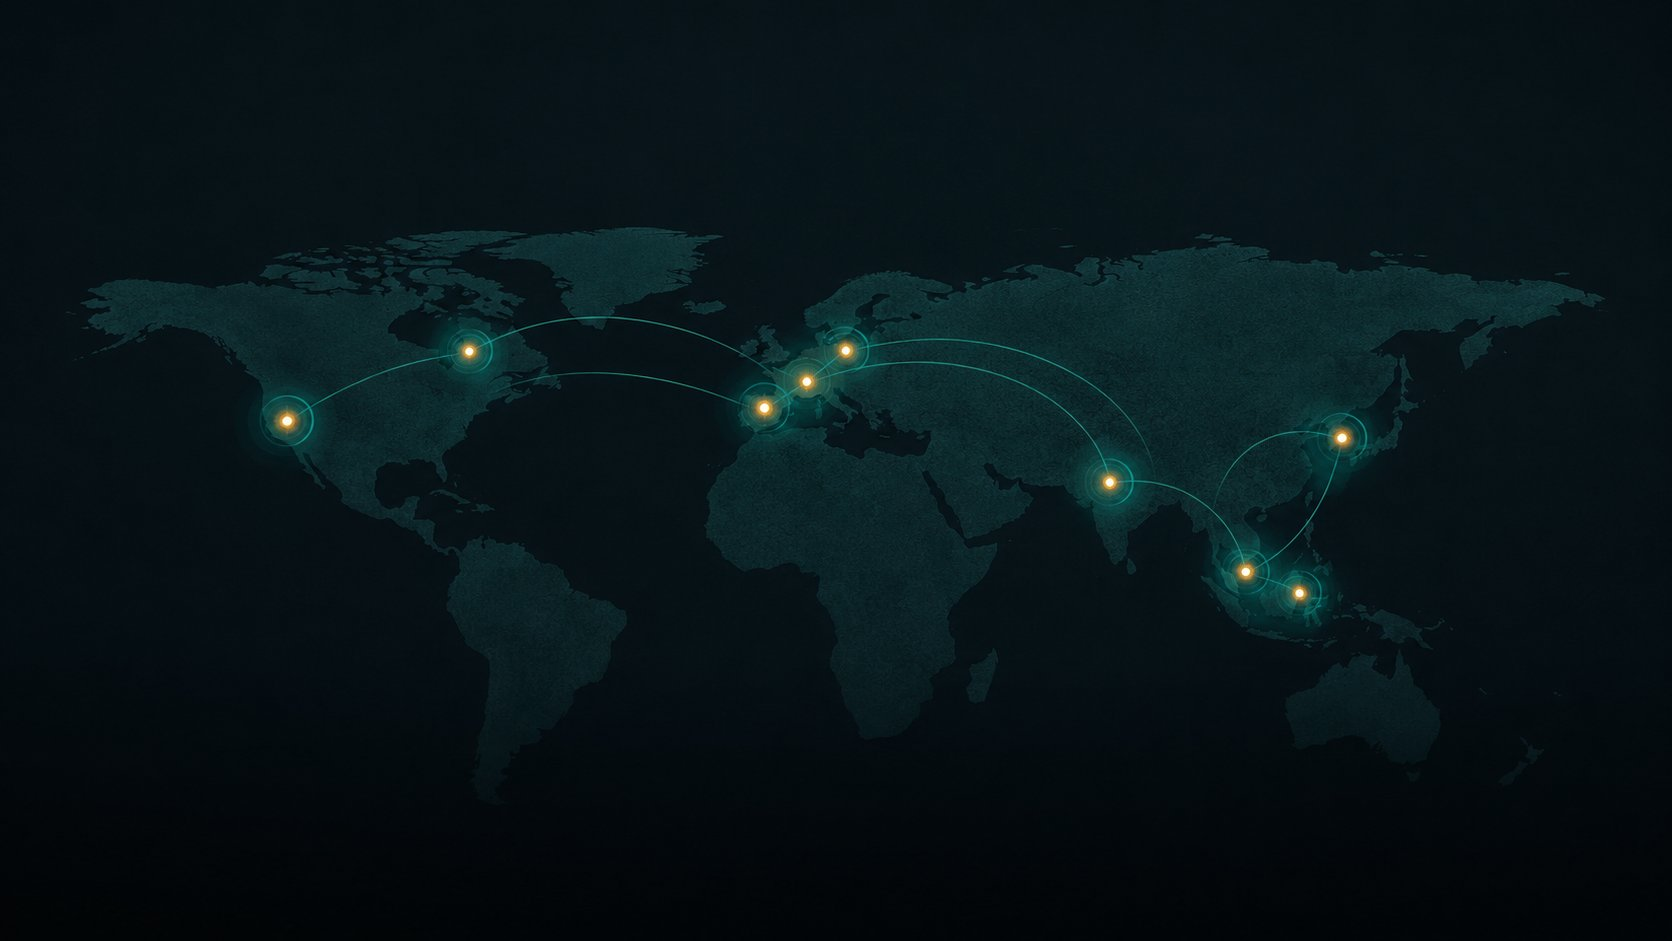
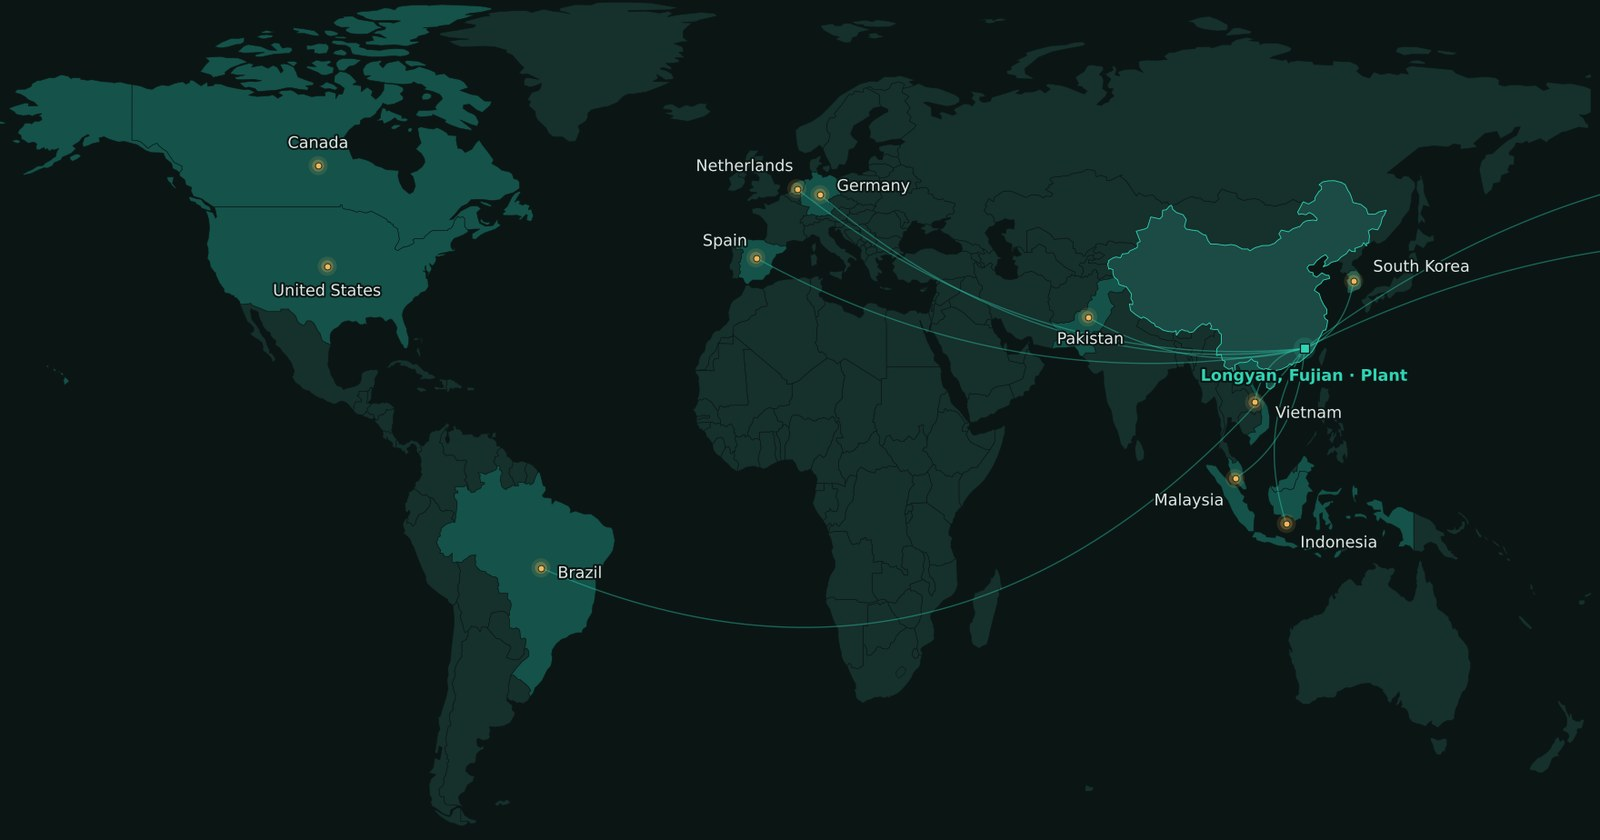
Add files via upload

diff --git a/company/about.html b/company/about.html
@@ -174,7 +174,7 @@
       </div>
       <p style="font-size:.9rem;color:var(--ink-3);margin-bottom:1rem;max-width:70ch">Pharmaceutical excipients — introducing high-purity precipitated silica (VS-PH350) for oral solid dosage.</p>
       <div style="display:grid;grid-template-columns:repeat(auto-fit,minmax(160px,1fr));gap:.75rem">
-        <img src="../assets/img/events/event-02.jpg" alt="Vistasilica at CPHI Worldwide · Frankfurt 2019" loading="lazy" style="width:100%;height:180px;object-fit:cover;border-radius:10px"><img src="../assets/img/events/event-03.jpg" alt="Vistasilica at CPHI Worldwide · Frankfurt 2019" loading="lazy" style="width:100%;height:180px;object-fit:cover;border-radius:10px"><img src="../assets/img/events/event-04.jpg" alt="Vistasilica at CPHI Worldwide · Frankfurt 2019" loading="lazy" style="width:100%;height:180px;object-fit:cover;border-radius:10px"><img src="../assets/img/events/event-06.jpg" alt="Vistasilica at CPHI Worldwide · Frankfurt 2019" loading="lazy" style="width:100%;height:180px;object-fit:cover;border-radius:10px">
+        <img src="../assets/img/events/event-03.jpg" alt="Vistasilica at CPHI Worldwide · Frankfurt 2019" loading="lazy" style="width:100%;height:180px;object-fit:cover;border-radius:10px"><img src="../assets/img/events/event-11.jpg" alt="Vistasilica at CPHI Worldwide · Frankfurt 2019" loading="lazy" style="width:100%;height:180px;object-fit:cover;border-radius:10px"><img src="../assets/img/events/event-08.jpg" alt="Vistasilica at CPHI Worldwide · Frankfurt 2019" loading="lazy" style="width:100%;height:180px;object-fit:cover;border-radius:10px"><img src="../assets/img/events/event-13.jpg" alt="Vistasilica at CPHI Worldwide · Frankfurt 2019" loading="lazy" style="width:100%;height:180px;object-fit:cover;border-radius:10px">
       </div>
     </div>
     <div class="event-year" data-reveal style="margin-bottom:2.5rem">
@@ -184,7 +184,7 @@
       </div>
       <p style="font-size:.9rem;color:var(--ink-3);margin-bottom:1rem;max-width:70ch">Food & feed anti-caking and carrier solutions — flow and stability demonstrations for powdered blends.</p>
       <div style="display:grid;grid-template-columns:repeat(auto-fit,minmax(160px,1fr));gap:.75rem">
-        <img src="../assets/img/events/event-05.jpg" alt="Vistasilica at Fi Europe & industry shows 2023" loading="lazy" style="width:100%;height:180px;object-fit:cover;border-radius:10px"><img src="../assets/img/events/event-07.jpg" alt="Vistasilica at Fi Europe & industry shows 2023" loading="lazy" style="width:100%;height:180px;object-fit:cover;border-radius:10px"><img src="../assets/img/events/event-08.jpg" alt="Vistasilica at Fi Europe & industry shows 2023" loading="lazy" style="width:100%;height:180px;object-fit:cover;border-radius:10px"><img src="../assets/img/events/event-01.jpg" alt="Vistasilica at Fi Europe & industry shows 2023" loading="lazy" style="width:100%;height:180px;object-fit:cover;border-radius:10px">
+        <img src="../assets/img/events/event-06.jpg" alt="Vistasilica at Fi Europe · Frankfurt 2023" loading="lazy" style="width:100%;height:180px;object-fit:cover;border-radius:10px"><img src="../assets/img/events/event-07.jpg" alt="Vistasilica at Fi Europe · Frankfurt 2023" loading="lazy" style="width:100%;height:180px;object-fit:cover;border-radius:10px"><img src="../assets/img/events/event-10.jpg" alt="Vistasilica at Fi Europe · Frankfurt 2023" loading="lazy" style="width:100%;height:180px;object-fit:cover;border-radius:10px"><img src="../assets/img/events/event-16.jpg" alt="Vistasilica at Fi Europe · Frankfurt 2023" loading="lazy" style="width:100%;height:180px;object-fit:cover;border-radius:10px">
       </div>
     </div>
     <div class="event-year" data-reveal style="margin-bottom:2.5rem">
@@ -194,7 +194,7 @@
       </div>
       <p style="font-size:.9rem;color:var(--ink-3);margin-bottom:1rem;max-width:70ch">Personal & oral care silica — soft-focus and mattifying grades (VS-DC300) with live sensory panels.</p>
       <div style="display:grid;grid-template-columns:repeat(auto-fit,minmax(160px,1fr));gap:.75rem">
-        <img src="../assets/img/events/event-09.jpg" alt="Vistasilica at in-cosmetics Global · Paris 2024" loading="lazy" style="width:100%;height:180px;object-fit:cover;border-radius:10px"><img src="../assets/img/events/event-10.jpg" alt="Vistasilica at in-cosmetics Global · Paris 2024" loading="lazy" style="width:100%;height:180px;object-fit:cover;border-radius:10px"><img src="../assets/img/events/event-12.jpg" alt="Vistasilica at in-cosmetics Global · Paris 2024" loading="lazy" style="width:100%;height:180px;object-fit:cover;border-radius:10px"><img src="../assets/img/events/event-16.jpg" alt="Vistasilica at in-cosmetics Global · Paris 2024" loading="lazy" style="width:100%;height:180px;object-fit:cover;border-radius:10px">
+        <img src="../assets/img/events/event-09.jpg" alt="Vistasilica at in-cosmetics Global · Paris 2024" loading="lazy" style="width:100%;height:180px;object-fit:cover;border-radius:10px"><img src="../assets/img/events/event-12.jpg" alt="Vistasilica at in-cosmetics Global · Paris 2024" loading="lazy" style="width:100%;height:180px;object-fit:cover;border-radius:10px"><img src="../assets/img/events/event-15.jpg" alt="Vistasilica at in-cosmetics Global · Paris 2024" loading="lazy" style="width:100%;height:180px;object-fit:cover;border-radius:10px"><img src="../assets/img/events/event-01.jpg" alt="Vistasilica at in-cosmetics Global · Paris 2024" loading="lazy" style="width:100%;height:180px;object-fit:cover;border-radius:10px">
       </div>
     </div>
     <div class="event-year" data-reveal style="margin-bottom:2.5rem">

diff --git a/company/global.html b/company/global.html
@@ -4,9 +4,9 @@
 <meta charset="UTF-8">
 <meta name="viewport" content="width=device-width, initial-scale=1">
 <title>Global Presence &amp; Regional Strategy | Vistasilica</title>
-<meta name="description" content="Six track-by-country customer maps covering 8 export markets. We advance by tier one, two and three, concentrating resources on high-fit, high-repeat customers.">
+<meta name="description" content="Six track-by-country customer maps covering 11 export markets. We advance by tier one, two and three, concentrating resources on high-fit, high-repeat customers.">
 <meta property="og:title" content="Global Presence &amp; Regional Strategy | Vistasilica">
-<meta property="og:description" content="Six track-by-country customer maps covering 8 export markets. We advance by tier one, two and three, concentrating resources on high-fit, high-repeat customers.">
+<meta property="og:description" content="Six track-by-country customer maps covering 11 export markets. We advance by tier one, two and three, concentrating resources on high-fit, high-repeat customers.">
 <meta property="og:type" content="website">
 <link rel="icon" href="../assets/img/logo-mark.svg" type="image/svg+xml">
 <link rel="preconnect" href="https://fonts.googleapis.com">
@@ -107,27 +107,31 @@
   <div class="wrap">
     <nav class="crumbs"><a href="../index.html">Home</a><span>/</span><span>Company</span><span>/</span><span>Global Presence</span></nav>
     <h1>Global Presence &amp; Regional Strategy</h1>
-    <p>Six track-by-country customer maps covering 8 export markets. We advance by tier one, two and three, concentrating resources on high-fit, high-repeat customers.</p>
+    <p>Six track-by-country customer maps covering 11 export markets. We advance by tier one, two and three, concentrating resources on high-fit, high-repeat customers.</p>
   </div>
 </section>
 
 <section class="section">
   <div class="wrap">
-    <div class="map-wrap" data-reveal><div style="margin-bottom:1.25rem"><span class="eyebrow">Export markets</span><h2 class="section-title" style="margin:.4rem 0 .6rem">Key export markets</h2><p class="section-lead" style="max-width:60ch">Vistasilica ships to customers across Europe, North America, South America and Asia. Core export markets include Spain, Germany, the Netherlands, South Korea, Canada, the United States and Brazil.</p></div>
+    <div class="map-wrap" data-reveal><div style="margin-bottom:1.25rem"><span class="eyebrow">Export markets</span><h2 class="section-title" style="margin:.4rem 0 .6rem">Key export markets</h2><p class="section-lead" style="max-width:60ch">Vistasilica ships to customers across Europe, North America, South America and Asia. Core export markets are Spain, the Netherlands, Germany, South Korea, Vietnam, Malaysia, Indonesia, Pakistan, Canada, the United States and Brazil.</p></div>
       <figure style="margin:0">
-        <img src="../assets/img/global/export-map.jpg" alt="Vistasilica global export map showing customers across North America, Europe, South Asia, Southeast Asia and East Asia" loading="lazy" width="1672" height="941" style="width:100%;height:auto;border-radius:14px;display:block">
+        <img src="../assets/img/global/export-map.jpg" alt="Vistasilica export map — precipitated silica shipped from the Longyan, Fujian plant to 11 markets: Spain, the Netherlands, Germany, South Korea, Vietnam, Malaysia, Indonesia, Pakistan, Canada, the United States and Brazil." loading="lazy" width="1600" height="840" style="width:100%;height:auto;border-radius:14px;display:block">
         <figcaption style="margin-top:1rem;display:flex;flex-wrap:wrap;gap:.5rem">
-          <span class="grade-tag">United States</span>
-          <span class="grade-tag">Canada</span>
           <span class="grade-tag">Spain</span>
-          <span class="grade-tag">Germany</span>
           <span class="grade-tag">Netherlands</span>
+          <span class="grade-tag">Germany</span>
           <span class="grade-tag">South Korea</span>
+          <span class="grade-tag">Vietnam</span>
+          <span class="grade-tag">Malaysia</span>
+          <span class="grade-tag">Indonesia</span>
+          <span class="grade-tag">Pakistan</span>
+          <span class="grade-tag">Canada</span>
+          <span class="grade-tag">United States</span>
           <span class="grade-tag">Brazil</span>
         </figcaption>
       </figure></div>
     <div class="grid grid--4" style="margin-top:2rem" data-reveal>
-      <div class="trust-stat"><b>8</b><span>Export markets</span></div>
+      <div class="trust-stat"><b>11</b><span>Export markets</span></div>
       <div class="trust-stat"><b>3</b><span>Tiered strategy</span></div>
       <div class="trust-stat"><b>6</b><span>Track-by-country maps</span></div>
       <div class="trust-stat"><b>Global</b><span>Customers across tracks</span></div>

diff --git a/css/style.css b/css/style.css
@@ -138,15 +138,26 @@ li { margin-bottom: .4rem; }
 .brand__sub { display: block; font-family: var(--font-body); font-weight: 500; font-size: .62rem; letter-spacing: .22em; text-transform: uppercase; color: var(--ink-3); margin-top: 3px; }
 
 .nav__links { display: flex; align-items: center; gap: .35rem; list-style: none; margin: 0; padding: 0; }
-.nav__links > li { position: relative; }
+.nav__links > li { position: relative; flex: 0 0 auto; }
 .nav__links > li > a {
-  display: inline-flex; align-items: center; gap: .3rem;
+  display: inline-flex; align-items: center; gap: .3rem; white-space: nowrap;
   padding: .6rem .85rem; font-size: .93rem; font-weight: 500;
   color: var(--ink-2); border-radius: var(--radius);
   font-family: var(--font-display); transition: color .2s, background .2s;
 }
 .nav__links > li > a:hover, .nav__links > li.is-open > a { color: var(--teal); background: var(--teal-tint); }
 .nav__links > li > a[aria-current="page"] { color: var(--teal); }
+
+/* 窄屏：收紧导航间距与字号，避免文字折行或横向溢出 */
+@media (max-width: 1240px) {
+  .nav__links { gap: .1rem; }
+  .nav__links > li > a { padding: .6rem .6rem; font-size: .88rem; }
+}
+@media (max-width: 1120px) {
+  .nav__links > li > a { padding: .6rem .45rem; font-size: .84rem; letter-spacing: -0.01em; }
+  .nav__actions { gap: .4rem; }
+  .nav__actions .btn { padding-left: .85rem; padding-right: .85rem; font-size: .84rem; white-space: nowrap; }
+}
 .caret { width: 10px; height: 10px; opacity: .6; transition: transform .2s; }
 .nav__links > li.is-open .caret { transform: rotate(180deg); }
 

diff --git a/resources/media.html b/resources/media.html
@@ -321,7 +321,7 @@
       <h2>Where our material ends up</h2>
       <p class="gallery-cat__desc">Export markets and service map.</p>
       <a class="gallery-tile gallery-tile--map" href="../assets/img/global/export-map.jpg" target="_blank" rel="noopener">
-        <img src="../assets/img/global/export-map.jpg" alt="Vistasilica export map showing precipitated silica shipments to eight countries." loading="lazy">
+        <img src="../assets/img/global/export-map.jpg" alt="Vistasilica export map — precipitated silica shipped from the Longyan, Fujian plant to 11 markets: Spain, the Netherlands, Germany, South Korea, Vietnam, Malaysia, Indonesia, Pakistan, Canada, the United States and Brazil." loading="lazy">
         <span class="gallery-tile__dl">View / download &#8599;</span>
       </a>
     </div>

diff --git a/index.html b/index.html
@@ -160,7 +160,7 @@
 <section class="trustbar">
   <div class="wrap">
     <div class="trust-stat"><b><em>6</em></b><span>Application tracks</span></div>
-    <div class="trust-stat"><b>8</b><span>Export markets</span></div>
+    <div class="trust-stat"><b>11</b><span>Export markets</span></div>
     <div class="trust-stat"><b>Global</b><span>Customers across application tracks</span></div>
     <div class="trust-stat"><b>1–3 days</b><span>Sample dispatch by air</span></div>
     <div class="trust-stat"><b>25kg</b><span>Small-batch · multi-grade</span></div>
